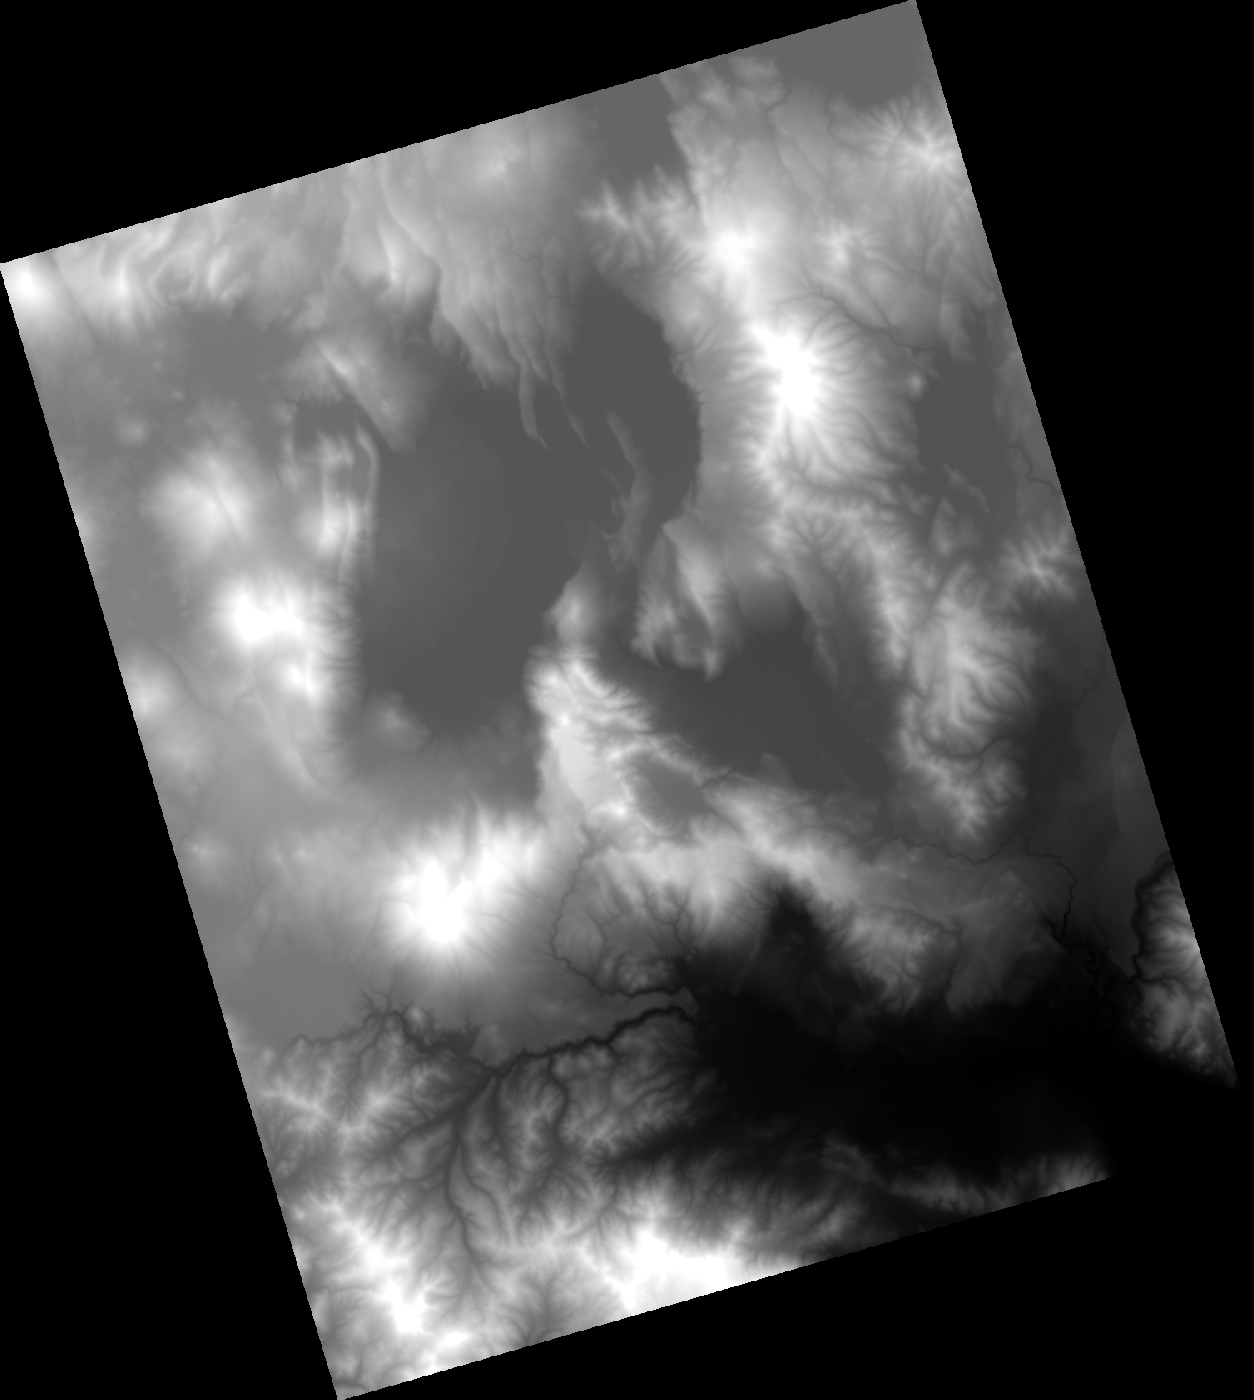
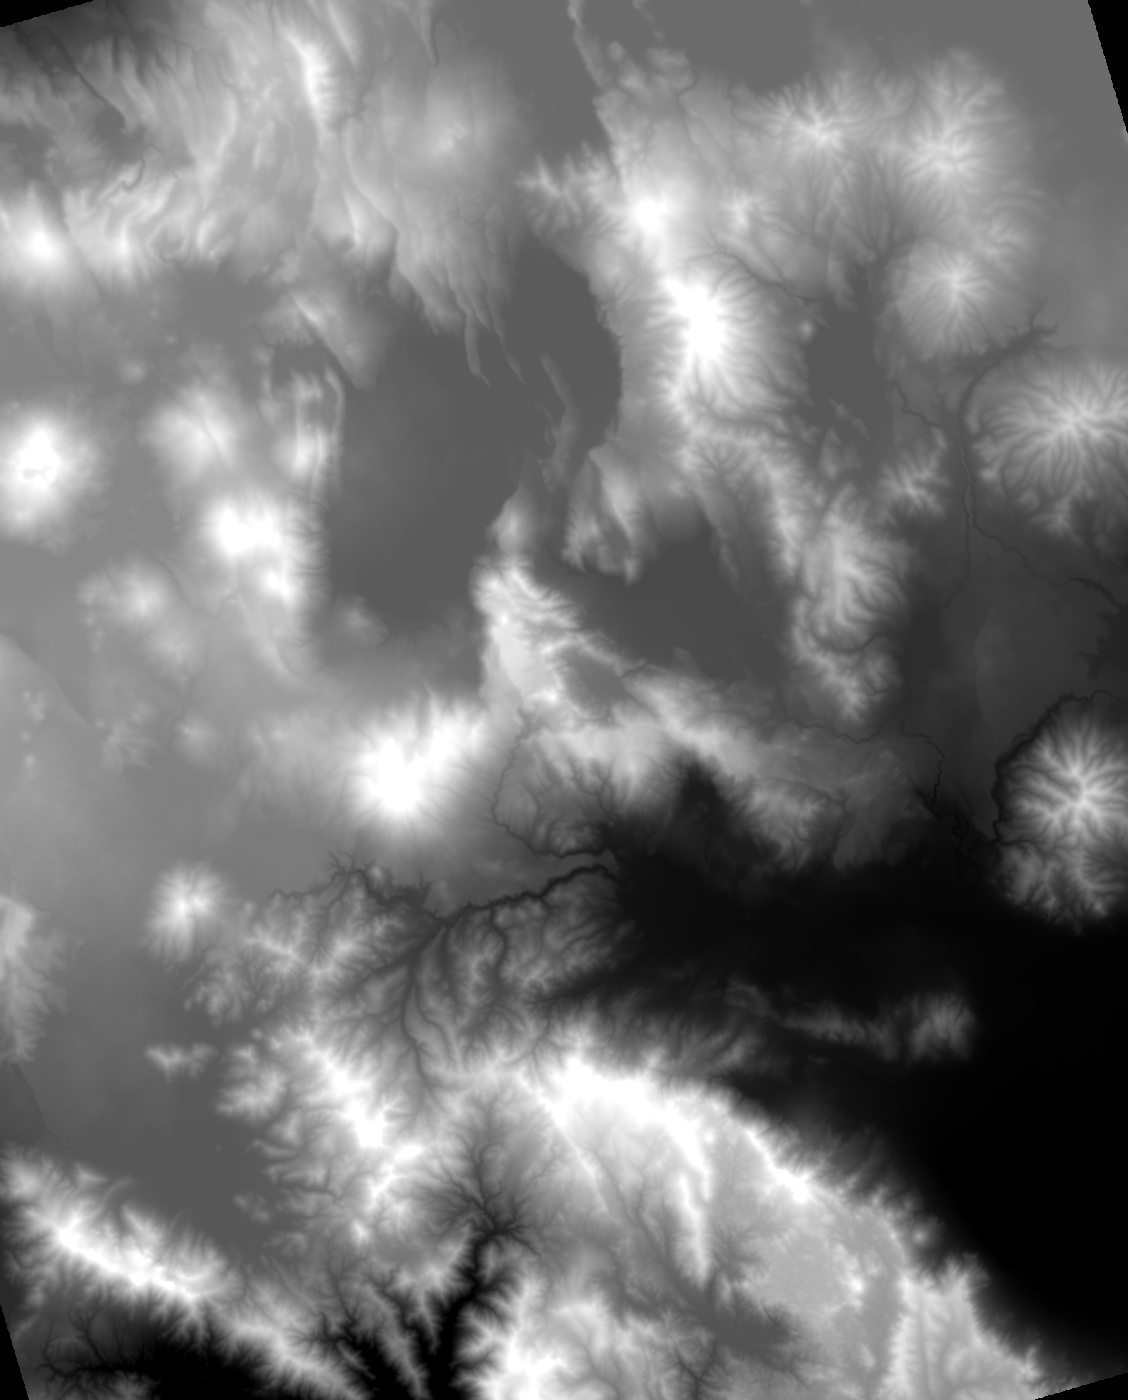
Region prep: 18x24-sized Lassen region, NaN-trimmed, with baked hydrography
Resize the region to ~63x78 km (an 18x24 @ 300 dpi crop needs 54x72 km of ground)
and clip the reproject to the bbox UTM box -> no NaN corners, honest bounds. Fetch
NHD waterbodies + order>=3 flowlines via pynhd, write hydro.json (116 lakes, 307
rivers). Set SSL_CERT_FILE from certifi BEFORE importing aiohttp users (py3dep/pynhd)
and fetch hydro first, so the USGS SSL handshake works without a manual export.

diff --git a/region_prep.py b/region_prep.py
@@ -9,7 +9,17 @@ Usage:
         --bbox -120.90 40.33 -120.50 40.78 \
         --epsg 32610
 """
-import argparse, json, os
+import os
+import certifi
+# Point OpenSSL at certifi BEFORE importing anything that pulls aiohttp (py3dep,
+# pynhd). python.org Python on macOS ships no system CA bundle, so the USGS NHD
+# service fails SSL verification otherwise -- and aiohttp captures its SSL config
+# at import, so setting this after those imports is too late (concurrent requests
+# race onto the empty default store).
+os.environ.setdefault("SSL_CERT_FILE", certifi.where())
+os.environ.setdefault("SSL_CERT_DIR", "")
+
+import argparse, json
 import numpy as np
 import rasterio
 from rasterio.enums import Resampling
@@ -59,7 +69,22 @@ def fetch_dem(bbox):
     # bbox is (west, south, east, north) in lon/lat. 10 m = 3DEP standard.
     return py3dep.get_dem(bbox, resolution=10)  # xarray DataArray, EPSG:4326
 
-def to_cog(dem_da, dst_crs, out_path, resolution_m=10):
+def fetch_hydro(bbox):
+    """Fetch NHD waterbodies + network flowlines for the bbox (EPSG:4326).
+    Returns (waterbodies_gdf_or_None, flowlines_gdf_or_None); tolerant of gaps."""
+    import pynhd
+    wb = fl = None
+    try:
+        wb = pynhd.WaterData("nhdwaterbody").bybox(bbox)
+    except Exception as ex:
+        print(f"  no waterbodies: {ex}")
+    try:
+        fl = pynhd.WaterData("nhdflowline_network").bybox(bbox)
+    except Exception as ex:
+        print(f"  no flowlines: {ex}")
+    return wb, fl
+
+def to_cog(dem_da, dst_crs, out_path, bbox_4326, resolution_m=10):
     # py3dep returns a rioxarray DataArray that already carries its own CRS
     # (3DEP serves CONUS Albers, EPSG:5070, with coords in metres). Trust that
     # CRS and reproject straight to the region CRS at a fixed metre grid, rather
@@ -68,6 +93,14 @@ def to_cog(dem_da, dst_crs, out_path, resolution_m=10):
         dem_da = dem_da.rio.write_crs("EPSG:4326")
     dem_da = dem_da.rio.reproject(dst_crs, resolution=resolution_m,
                                   resampling=Resampling.bilinear, nodata=np.nan)
+    # Clip to the UTM box of the requested geographic bbox. py3dep over-returns and
+    # the Albers->UTM reprojection leaves NaN corners; the bbox sits strictly inside
+    # the data, so this trims to a clean, fully-valid rectangle (honest bounds).
+    from pyproj import Transformer
+    fwd = Transformer.from_crs("EPSG:4326", dst_crs, always_xy=True)
+    w, s, e, n = bbox_4326
+    xs, ys = zip(*(fwd.transform(lo, la) for lo, la in [(w, s), (w, n), (e, s), (e, n)]))
+    dem_da = dem_da.rio.clip_box(min(xs), min(ys), max(xs), max(ys))
     dst = np.asarray(dem_da.values, dtype="float32")
     dh, dw = dst.shape
     dst_transform = dem_da.rio.transform()
@@ -113,9 +146,18 @@ def main():
     os.makedirs(out_dir, exist_ok=True)
     dst_crs = f"EPSG:{args.epsg}"
 
+    # Fetch hydrography first, while aiohttp's SSL context is fresh (a prior large
+    # DEM fetch can leave it in a state where concurrent NHD requests fail SSL).
+    print("Fetching NHD hydrography...")
+    wb, fl = fetch_hydro(tuple(args.bbox))
+    hydro = bake_hydro(wb, fl, dst_crs)
+    with open(os.path.join(out_dir, "hydro.json"), "w") as f:
+        json.dump(hydro, f)
+    print(f"  lakes: {len(hydro['lakes'])}  rivers: {len(hydro['rivers'])}")
+
     print("Fetching 3DEP DEM...")
     dem = fetch_dem(tuple(args.bbox))
-    cog = to_cog(dem, dst_crs, os.path.join(out_dir, "dem.tif"))
+    cog = to_cog(dem, dst_crs, os.path.join(out_dir, "dem.tif"), tuple(args.bbox))
 
     print("Building aim-view overview...")
     size, bounds, crs = overview_png(cog, os.path.join(out_dir, "overview.png"))
@@ -129,6 +171,7 @@ def main():
         "id": args.id, "name": args.name, "crs": crs,
         "bounds": list(bounds), "overview_size": list(size),
         "dem_path": "dem.tif", "overview_path": "overview.png",
+        "hydro_path": "hydro.json",
         "native_resolution_m": 10,
         # absolute color scale + fixed light keep every crop consistent (invariant 4):
         "elevation_min": emin, "elevation_max": emax,